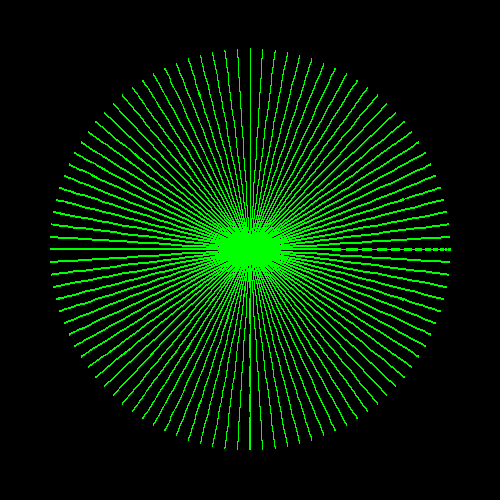
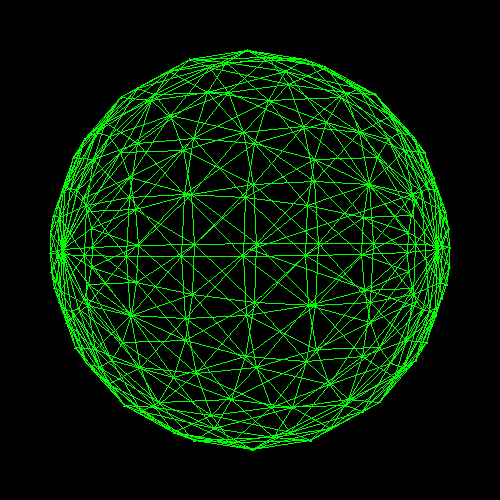
finished sphere

Changed region(s): [[0.09, 0.09, 0.9, 0.9]]

diff --git a/draw.c b/draw.c
@@ -33,6 +33,7 @@ void add_polygon( struct matrix *polygons,
   add_point(polygons, x0, y0, z0);
   add_point(polygons, x1, y1, z1);
   add_point(polygons, x2, y2, z2);
+  //printf("add_polygon( (%lf,%lf,%lf), (%lf,%lf,%lf), (%lf,%lf,%lf) )\n",x0,y0,z0,x1,y1,z1,x2,y2,z2);
 }
 
 /*======== void draw_polygons() ==========
@@ -62,6 +63,8 @@ void draw_polygons( struct matrix *polygons, screen s, color c ) {
     draw_line(x1, y1, x2, y2, s, c);
     draw_line(x2, y2, x0, y0, s, c);
     //printf("(%lf, %lf) (%lf, %lf)\n",x0,y0,x1,y1);
+    //printf("(%lf, %lf) (%lf, %lf)\n",x1,y1,x2,y2);
+    //printf("(%lf, %lf) (%lf, %lf)\n\n",x2,y2,x0,y0);
   }
 }
 
@@ -106,15 +109,90 @@ void add_sphere( struct matrix * points,
   //latitudes go from 0 to step/2
   //longitudes go from 0 to step/2
 
-  for(lat = 0; lat<num_steps/2; lat++){
-    for(longt = 0; longt<num_steps/2+1; longt++){
-      if(lat==0){
-	add_polygon( points,
-		     temp->m[0][0], temp->m[1][0], temp->m[2][0],
-		     temp->m[0][longt], temp->m[1][longt], temp->m[2][longt],
-		     temp->m[0][longt], temp->m[1][longt], temp->m[2][longt]
-		     );
+  for(lat = 0; lat<num_steps; lat++){
+    for(longt = 0; longt<num_steps; longt++){
+      int index = longt*num_steps+lat;
+      printf("lat: %d longt: %d index: %d\n",lat,longt,index);
+      add_polygon( points,
+		   temp->m[0][index]+1, temp->m[1][index]-1, temp->m[2][index],
+		   temp->m[0][index]-1, temp->m[1][index]-1, temp->m[2][index],
+		   temp->m[0][index], temp->m[1][index]+1, temp->m[2][index]
+		   );
+      if(longt==num_steps-1){
+	if(lat==num_steps-1){
+	  add_polygon( points,
+		       temp->m[0][index], temp->m[1][index], temp->m[2][index],
+		       temp->m[0][0], temp->m[1][0], temp->m[2][0],
+		       temp->m[0][1], temp->m[1][1], temp->m[2][1]
+		       );
+	  add_polygon( points,
+		       temp->m[0][index], temp->m[1][index], temp->m[2][index],
+		       temp->m[0][1], temp->m[1][1], temp->m[2][1],
+		       temp->m[0][index+1], temp->m[1][index+1], temp->m[2][index+1]
+		       );
+	}else{
+	  add_polygon( points,
+		       temp->m[0][index], temp->m[1][index], temp->m[2][index],
+		       temp->m[0][lat], temp->m[1][lat], temp->m[2][lat],
+		       temp->m[0][lat+1], temp->m[1][lat+1], temp->m[2][lat+1]
+		       );
+	  add_polygon( points,
+		       temp->m[0][index], temp->m[1][index], temp->m[2][index],
+		       temp->m[0][lat+1], temp->m[1][lat+1], temp->m[2][lat+1],
+		       temp->m[0][index+1], temp->m[1][index+1], temp->m[2][index+1]
+		       );
+	}
+      }else{
+	if(lat==num_steps-1){
+	  add_polygon( points,
+		       temp->m[0][index], temp->m[1][index], temp->m[2][index],
+		       temp->m[0][index-lat], temp->m[1][index-lat], temp->m[2][index-lat],
+		       temp->m[0][index-lat+num_steps], temp->m[1][index-lat+num_steps], temp->m[2][index-lat+num_steps]
+		       );
+	  /*
+	  add_polygon( points,
+		       temp->m[0][index], temp->m[1][index], temp->m[2][index],
+		       temp->m[0][index+1], temp->m[1][index+1], temp->m[2][index+1],
+		       temp->m[0][index-lat+num_steps+1], temp->m[1][index-lat+num_steps+1], temp->m[2][index-lat+num_steps+1]
+		       );
+	  add_polygon( points,
+		       temp->m[0][index], temp->m[1][index], temp->m[2][index],
+		       temp->m[0][index-lat+num_steps+1], temp->m[1][index-lat+num_steps+1], temp->m[2][index-lat+num_steps+1],
+		       temp->m[0][index-lat+num_steps], temp->m[1][index-lat+num_steps], temp->m[2][index-lat+num_steps]
+		       );
+	  */
+	}else{
+	  add_polygon( points,
+		       temp->m[0][index], temp->m[1][index], temp->m[2][index],
+		       temp->m[0][index+1], temp->m[1][index+1], temp->m[2][index+1],
+		       temp->m[0][index+num_steps+1], temp->m[1][index+num_steps+1], temp->m[2][index+num_steps+1]
+		       );
+	  add_polygon( points,
+		       temp->m[0][index], temp->m[1][index], temp->m[2][index],
+		       temp->m[0][index+num_steps+1], temp->m[1][index+num_steps+1], temp->m[2][index+num_steps+1],
+		       temp->m[0][index+num_steps], temp->m[1][index+num_steps], temp->m[2][index+num_steps]
+		       );
+	}
       }
+      /*
+      add_polygon( points,
+		   temp->m[0][index], temp->m[1][index], temp->m[2][index],
+		   temp->m[0][index+num_steps], temp->m[1][index+num_steps], temp->m[2][index+num_steps],
+		   temp->m[0][index], temp->m[1][index], temp->m[2][index]
+		   );
+      */
+      /*
+      add_polygon( points,
+		   temp->m[0][index], temp->m[1][index], temp->m[2][index],
+		   temp->m[0][index+1], temp->m[1][index+1], temp->m[2][index+1],
+		   temp->m[0][index+num_steps+1], temp->m[1][index+num_steps+1], temp->m[2][index+num_steps+1]
+		   );
+      add_polygon( points,
+		   temp->m[0][index], temp->m[1][index], temp->m[2][index],
+		   temp->m[0][index+num_steps+1], temp->m[1][index+num_steps+1], temp->m[2][index+num_steps+1],
+		   temp->m[0][index+num_steps], temp->m[1][index+num_steps], temp->m[2][index+num_steps]
+		   );
+      */
     }
   }
 
@@ -350,6 +428,10 @@ void add_box( struct matrix * points,
     {x,y2,z2}, //6
     {x,y,z2} //7
   };
+  int i;
+  for(i=0; i<8; i++){
+    printf("(%lf,%lf,%lf)\n",cors[i][0],cors[i][1],cors[i][2]);
+  }
 
   //printf("(%lf,%lf,%lf) (%lf,%lf,%lf) (%lf, %lf, %lf)\n",cors[0][0],cors[0][1],cors[0][2],cors[1][0],cors[1][1],cors[1][2],cors[2][0],cors[2][1],cors[2][2]);
   //FRONT
@@ -418,7 +500,6 @@ void add_box( struct matrix * points,
 	      cors[5][0],cors[5][1],cors[5][2],//5
 	      cors[2][0],cors[2][1],cors[2][2]//2
 	      );
- 
 }
   
 /*======== void add_circle() ==========
@@ -540,6 +621,7 @@ void add_point( struct matrix * points, double x, double y, double z) {
   points->m[3][points->lastcol] = 1;
 
   points->lastcol++;
+  //printf("size: %d\n",points->lastcol);
 }
 
 /*======== void add_edge() ==========
@@ -707,4 +789,3 @@ void draw_line(int x0, int y0, int x1, int y1, screen s, color c) {
     }
   }
 }
-

diff --git a/parser.c b/parser.c
@@ -141,7 +141,7 @@ void parse_file ( char * filename,
     else if (strncmp(line, "sphere", strlen(line)) == 0 ) {
       fgets(line, 255, f);
       sscanf(line, "%lf %lf %lf", &x, &y, &z);
-      add_sphere(pm, x, y, z, 1);
+      add_sphere(pm, x, y, z, 5);
       //printf( "%lf %lf %lf\n", x, y, z);
     }
     else if (strncmp(line, "torus", strlen(line)) == 0 ) {
@@ -229,5 +229,3 @@ void parse_file ( char * filename,
   fclose(f);
   //printf("END PARSE\n");
 }
-
-  
